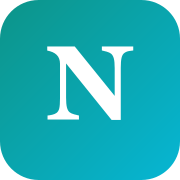
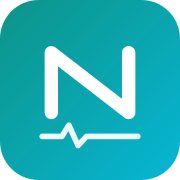
feat: cria logotipo do NexusMed (monograma N + pulso cardíaco)
Marca própria: monograma "N" com uma linha de pulso/batimento como
acento, ligando "Nexus" (conexão) e "Med" (medicina), no gradiente
teal->cyan já usado na identidade visual do app. Testada em tamanhos
pequenos (favicon 32px) antes de aplicar — o N continua legível mesmo
quando o pulso vira só uma textura sutil.

- Novo componente src/components/common/Logo.tsx (SVG inline, nítido
  em qualquer tamanho) substitui o "N" em caixa de texto no Header e o
  ícone de estetoscópio genérico na tela de login.
- Ícones do PWA/favicon (icon-192, icon-512, apple-touch-icon,
  favicon-32) regenerados a partir da mesma arte, mantendo a marca
  consistente dentro e fora do navegador.

Changed region(s): [[0.1944, 0.25, 0.8056, 0.8333]]

diff --git a/src/components/common/Logo.tsx b/src/components/common/Logo.tsx
@@ -1,0 +1,40 @@
+import React from 'react';
+
+interface LogoProps {
+  className?: string;
+}
+
+/**
+ * Marca do NexusMed: monograma "N" com uma linha de pulso/batimento cardíaco
+ * como acento, unindo "Nexus" (conexão) e "Med" (medicina). Mesma arte usada
+ * nos ícones do PWA/favicon (public/icon-*.png), gerados a partir do mesmo
+ * desenho para manter a marca consistente dentro e fora do app.
+ */
+export const Logo: React.FC<LogoProps> = ({ className = 'w-8 h-8' }) => (
+  <svg viewBox="0 0 512 512" className={className} role="img" aria-label="NexusMed">
+    <defs>
+      <linearGradient id="nexusmed-logo-gradient" x1="0%" y1="0%" x2="100%" y2="100%">
+        <stop offset="0%" stopColor="#0d9488" />
+        <stop offset="100%" stopColor="#06b6d4" />
+      </linearGradient>
+    </defs>
+    <rect width="512" height="512" rx="110" fill="url(#nexusmed-logo-gradient)" />
+    <polyline
+      points="146,320 146,150 366,320 366,150"
+      fill="none"
+      stroke="#ffffff"
+      strokeWidth="38"
+      strokeLinecap="round"
+      strokeLinejoin="round"
+    />
+    <polyline
+      points="120,388 176,388 196,356 222,414 246,388 392,388"
+      fill="none"
+      stroke="#ffffff"
+      strokeWidth="16"
+      strokeLinecap="round"
+      strokeLinejoin="round"
+      opacity="0.92"
+    />
+  </svg>
+);

diff --git a/src/components/Header.tsx b/src/components/Header.tsx
@@ -18,6 +18,7 @@ import {
 } from 'lucide-react';
 import { UserPlan, UserStats, ThemeMode } from '../types';
 import { useAuth } from '../contexts/AuthContext';
+import { Logo } from './common/Logo';
 
 interface HeaderProps {
   currentPlan: UserPlan;
@@ -132,9 +133,7 @@ export const Header: React.FC<HeaderProps> = ({
             onClick={() => onSelectView('dashboard')}
             className="flex items-center gap-2.5 text-left group focus:outline-hidden cursor-pointer"
           >
-            <div className="w-8 h-8 rounded-xl bg-gradient-to-tr from-teal-600 to-cyan-500 text-white flex items-center justify-center font-serif font-bold text-base shadow-sm shadow-teal-600/30 group-hover:scale-105 transition-transform">
-              N
-            </div>
+            <Logo className="w-8 h-8 rounded-xl shadow-sm shadow-teal-600/30 group-hover:scale-105 transition-transform" />
             <div>
               <span className="font-serif font-bold text-lg tracking-tight bg-gradient-to-r from-slate-900 to-teal-800 dark:from-white dark:to-teal-300 bg-clip-text text-transparent">
                 NexusMed

diff --git a/src/components/auth/LoginView.tsx b/src/components/auth/LoginView.tsx
@@ -1,6 +1,5 @@
 import React, { useState } from 'react';
 import {
-  Stethoscope,
   BookOpen,
   HelpCircle,
   Layers,
@@ -19,6 +18,7 @@ import {
 } from 'lucide-react';
 import { useAuth } from '../../contexts/AuthContext';
 import { ForgotPasswordModal } from './ForgotPasswordModal';
+import { Logo } from '../common/Logo';
 
 export const LoginView: React.FC = () => {
   const {
@@ -135,9 +135,7 @@ export const LoginView: React.FC = () => {
         <div>
           {/* Logo e Nome */}
           <div className="flex items-center gap-3 mb-10">
-            <div className="w-12 h-12 rounded-xl bg-teal-600 dark:bg-teal-500 text-white flex items-center justify-center shadow-md shadow-teal-700/20">
-              <Stethoscope className="w-6 h-6" />
-            </div>
+            <Logo className="w-12 h-12 rounded-xl shadow-md shadow-teal-700/20" />
             <div>
               <span className="text-2xl font-bold font-serif-reading tracking-tight text-slate-900 dark:text-white">
                 NexusMed

diff --git a/index.html b/index.html
@@ -12,7 +12,8 @@
     <meta name="robots" content="noindex, nofollow" />
     <link rel="manifest" href="/manifest.json" />
     <meta name="theme-color" content="#0d9488" />
-    <link rel="icon" href="/icon-192.png" type="image/png" />
+    <link rel="icon" href="/favicon-32.png" type="image/png" sizes="32x32" />
+    <link rel="icon" href="/icon-192.png" type="image/png" sizes="192x192" />
     <link rel="apple-touch-icon" href="/apple-touch-icon.png" />
     <meta name="apple-mobile-web-app-capable" content="yes" />
     <meta name="apple-mobile-web-app-status-bar-style" content="black-translucent" />
